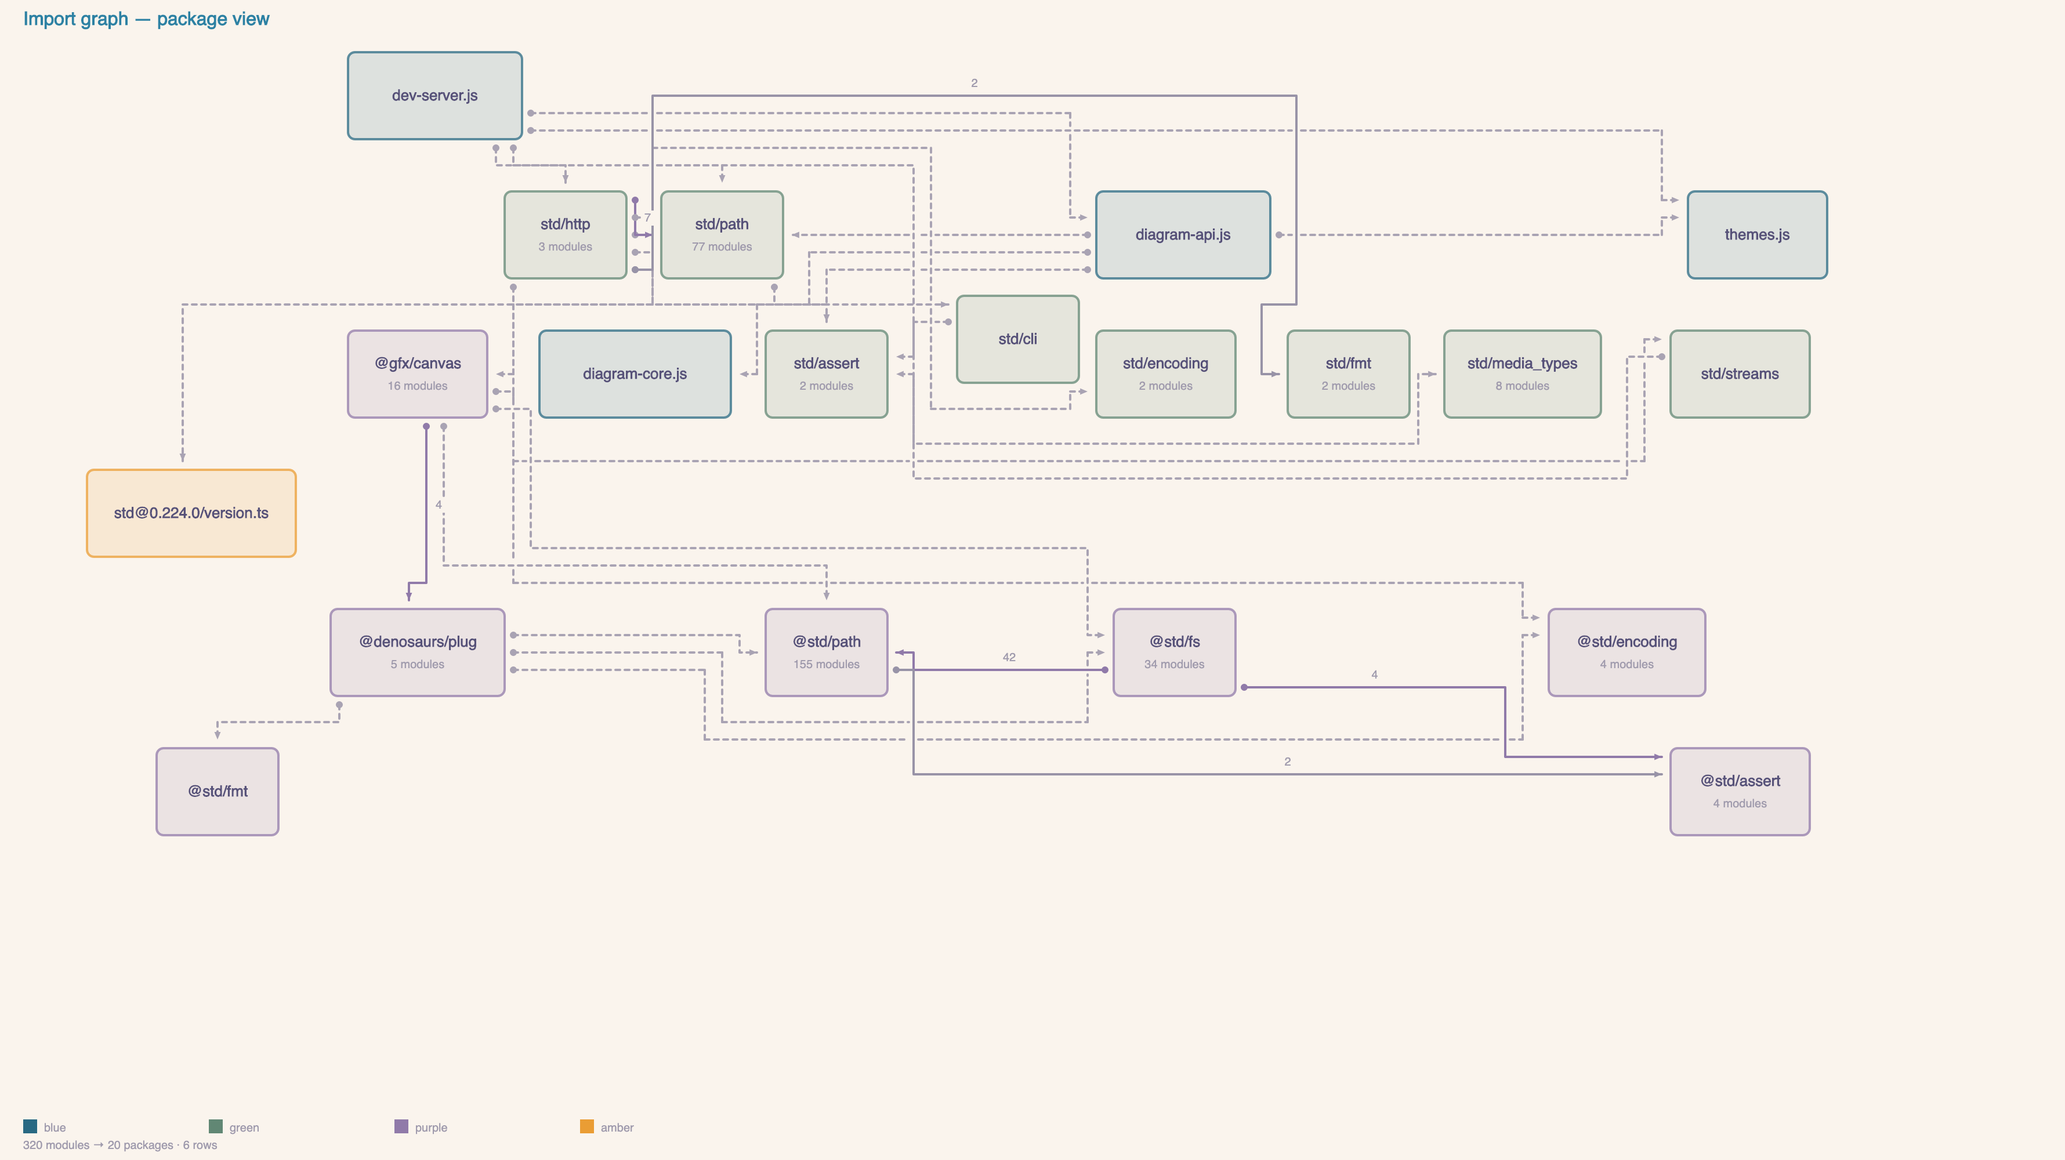
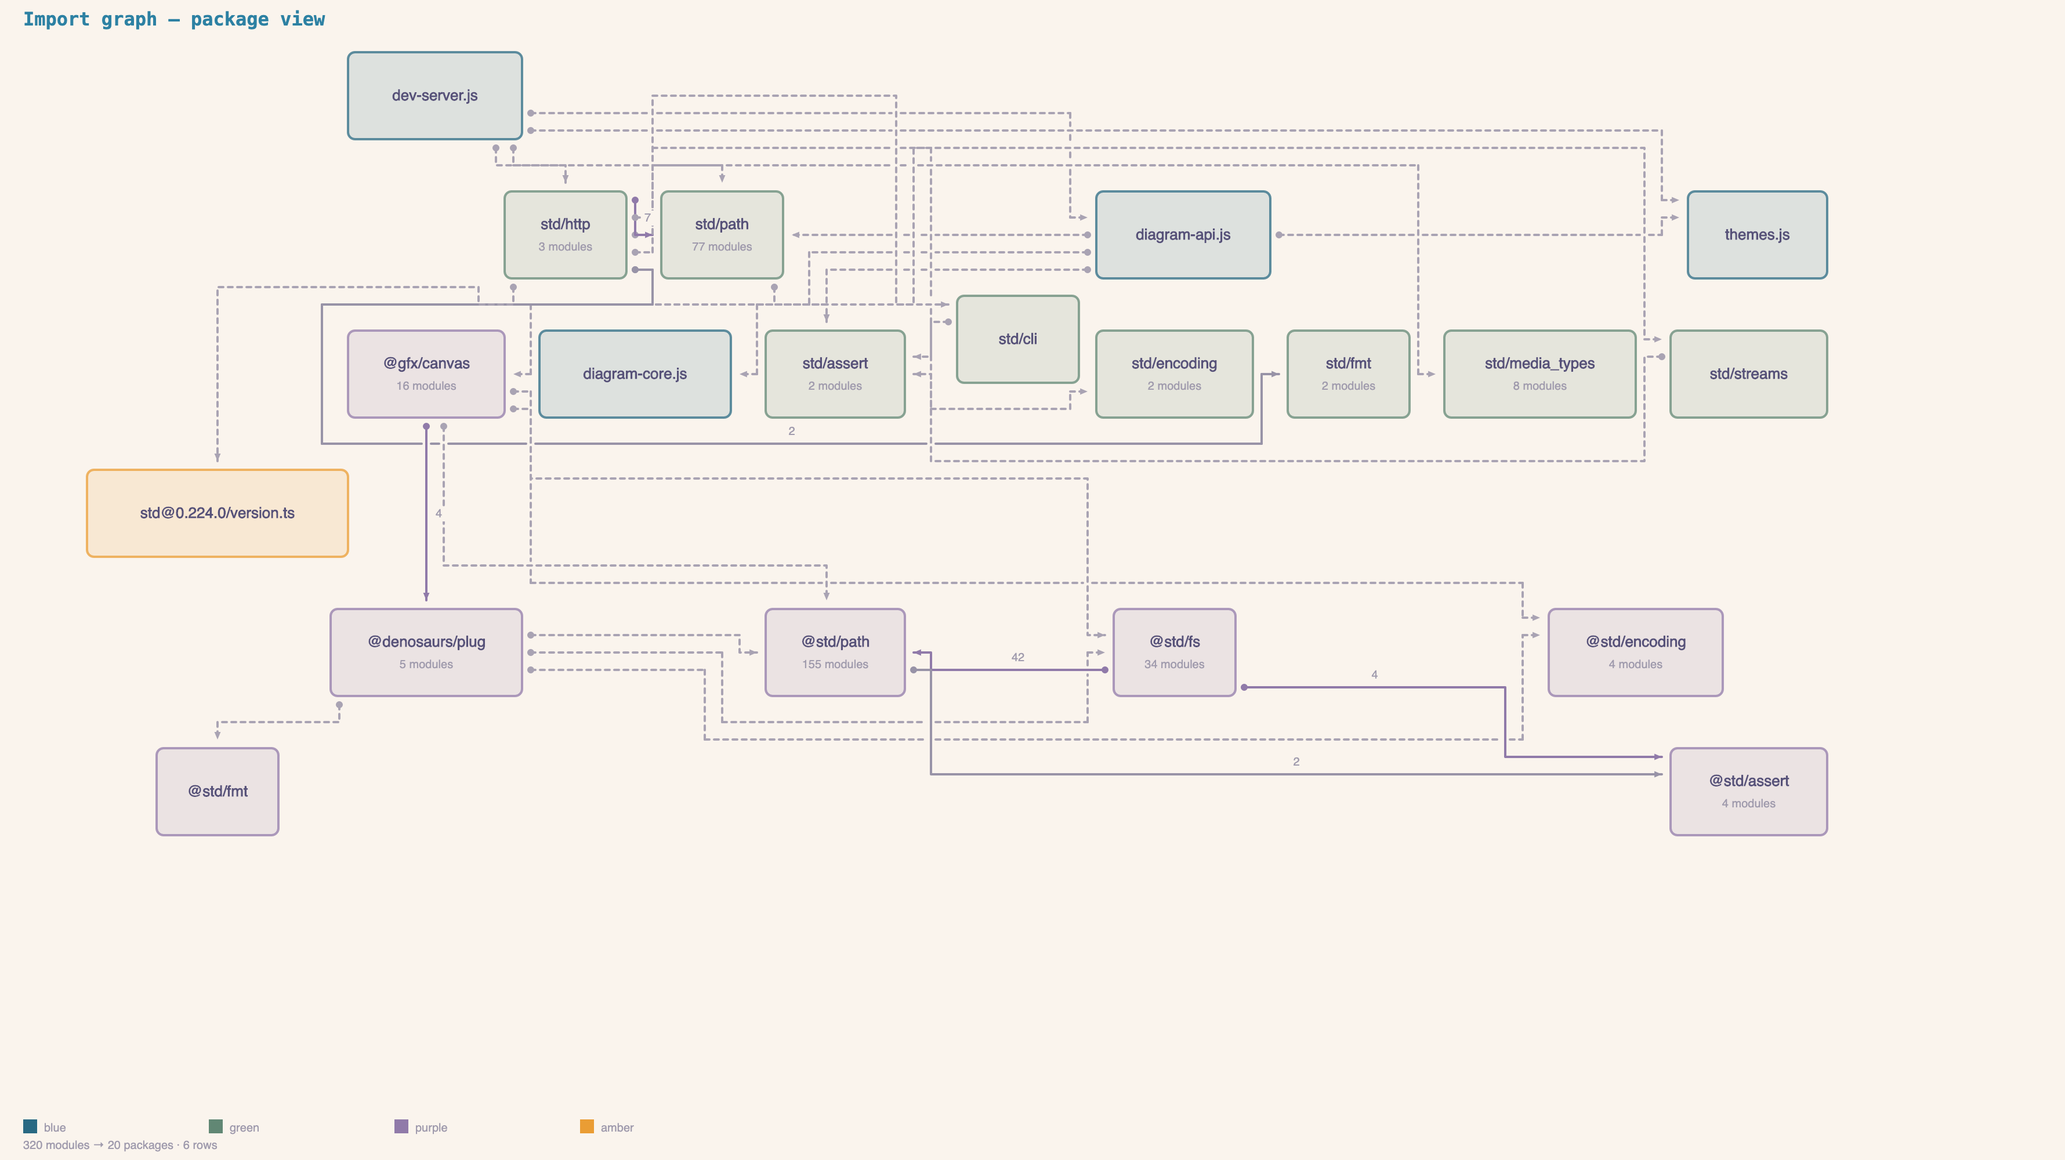
Wrap box text at a width ceiling instead of growing without bound
A box grew to fit whatever text it held. Because layout is a grid, one long
string set the column width for its whole row, so a single node could stretch
the board — and a wide enough board hits the 4096px raster cap and is
downscaled until nothing reads. Importing a real graph needed two rounds of
hand-tuning width and per-row to get a legible PNG, and the importer had to
truncate titles to a character count before handing them over, which cuts the
identifying part of a title as often as not.

Boxes now grow only to maxNodeW (default 340px, scaled by fontSize) and wrap
past it. Titles take two lines, each detail line three, then ellipsize.

The wrapping itself already existed — wrapLabel has been there for explicit
widths, reachable only by dragging a box in the editor. What was missing was a
default budget, and details: contentWidth takes the max over label *and* detail
lines, so capping the label alone cannot cap the box, which is exactly the case
that motivated this.

Manual control is unchanged and still wins. An explicit node.w beats the
ceiling outright, and "maxNodeW": 0 restores unbounded growth for a board that
wants it. A word too long to break is never split — it overflows its line and
widens the box, so module specifiers and ids stay readable rather than being
ellipsized into ambiguity.

Three shipped boards re-render: an audit across all five found one box gaining
a line and zero texts newly ellipsized, so this is width shrinking, not content
[…]

diff --git a/diagram-core.js b/diagram-core.js
@@ -103,6 +103,19 @@ export function fontFamily(state = {}) {
 // with their text. Literals here are exactly today's hardcoded sizes, so an
 // unset fontSize (scale 1) renders byte-identically.
 const BASE_LABEL_PX = 13;
+
+// Default ceiling for an auto-sized box, before its text wraps instead of
+// growing. ~3.4x the card minimum: wide enough that ordinary labels never wrap,
+// narrow enough that a pasted sentence does. Override per board with
+// state.maxNodeW; declared here because fontSizes() runs at module load.
+export const DEFAULT_MAX_BOX_W = 340;
+
+// A title gets two lines; a detail line gets three. Details are usually the
+// longer text, and vertical space is cheap next to the width that forces a
+// whole row wider.
+export const MAX_LABEL_LINES = 2;
+export const MAX_DETAIL_LINES = 3;
+
 export function fontSizes(state = {}) {
   const fs = Number.isFinite(state.fontSize) && state.fontSize > 0
     ? state.fontSize
@@ -131,6 +144,15 @@ export function fontSizes(state = {}) {
       gap: r(4),
       padX: r(20),
       labelBaseline: r(12),
+      // Width a box grows to before its text wraps instead. Without a ceiling
+      // one long string sets the column width for its whole row, so a single
+      // node stretches the board — and a wide enough board hits the 4096px
+      // raster cap and is downscaled until nothing reads. Scales with fontSize
+      // so larger text still gets room for the same number of words.
+      // state.maxNodeW overrides; 0 restores unbounded growth.
+      maxW: Number.isFinite(state.maxNodeW)
+        ? (state.maxNodeW > 0 ? r(state.maxNodeW) : Infinity)
+        : r(DEFAULT_MAX_BOX_W),
     },
   };
 }
@@ -595,33 +617,75 @@ export function wrapLabel(
   const fits = (s) => ctx.measureText(s).width <= budgetPx;
   if (!Number.isFinite(budgetPx) || fits(label)) return [label];
 
-  const words = label.split(/\s+/).filter(Boolean);
-  let i = 0, l1 = "";
-  for (; i < words.length; i++) { // pack line 1 (force ≥1 word even if it overflows)
-    const t = l1 ? l1 + " " + words[i] : words[i];
-    if (fits(t) || !l1) l1 = t;
-    else break;
+  return wrapToLines(label, fits, MAX_LABEL_LINES);
+}
+
+// Greedy word-wrap into at most maxLines lines under `fits`, ellipsizing the
+// last line only if words are left over. A line always takes at least one word,
+// so an unbreakable word longer than the budget yields a line that overflows
+// rather than an empty one — the box then grows to that word, which is why a
+// single long word still widens a box instead of vanishing into an ellipsis.
+function wrapToLines(text, fits, maxLines) {
+  const words = String(text ?? "").split(/\s+/).filter(Boolean);
+  if (!words.length) return [""];
+  const lines = [];
+  let i = 0;
+  while (i < words.length && lines.length < maxLines) {
+    let ln = "";
+    for (; i < words.length; i++) {
+      const t = ln ? ln + " " + words[i] : words[i];
+      if (fits(t) || !ln) ln = t;
+      else break;
+    }
+    lines.push(ln);
   }
-  if (i >= words.length) return [l1];
-  let l2 = "";
-  for (; i < words.length; i++) { // pack line 2
-    const t = l2 ? l2 + " " + words[i] : words[i];
-    if (fits(t) || !l2) l2 = t;
-    else break;
+  const last = lines.length - 1;
+  // The second clause preserves the pre-wrap behaviour for a lone overflowing
+  // word: it is ellipsized once it shares a box with other lines, but a
+  // single-line box keeps the whole word and widens instead.
+  if (i < words.length || (lines.length > 1 && !fits(lines[last]))) {
+    lines[last] = ellipsize(lines[last], fits);
   }
-  if (i < words.length || !fits(l2)) l2 = ellipsize(l2, fits); // leftover words / too-long → …
-  return [l1, l2];
+  return lines;
+}
+
+/**
+ * Wrap detail lines to the same budget as the label, at the detail font.
+ *
+ * Capping the label alone cannot cap the box: contentWidth takes the max over
+ * label *and* detail lines, so one long detail widens the box regardless. Each
+ * source line wraps independently — they are separate facts, not a paragraph —
+ * and runs to MAX_DETAIL_LINES before ellipsizing.
+ */
+export function wrapDetails(
+  ctx,
+  details,
+  budgetPx,
+  font = "monospace",
+  sizes = DEFAULT_SIZES,
+) {
+  const src = details || [];
+  if (!Number.isFinite(budgetPx) || src.length === 0) return [...src];
+  ctx.font = `${sizes.detail}px ${font}`;
+  const fits = (s) => ctx.measureText(s).width <= budgetPx;
+  const out = [];
+  for (const d of src) {
+    const s = String(d ?? "");
+    if (fits(s)) out.push(s);
+    else out.push(...wrapToLines(s, fits, MAX_DETAIL_LINES));
+  }
+  return out;
 }
 
 // Width (px) to fit pre-wrapped label lines + detail lines, floored to the
 // card/emphasis minimum. Shared by measureNodeWidth (single line) and the
 // wrap-aware layout path.
-function contentWidth(ctx, labelLines, node, font, sizes) {
+function contentWidth(ctx, labelLines, detailLines, node, font, sizes) {
   ctx.font = `bold ${sizes.label}px ${font}`;
   let maxW = 0;
   for (const ln of labelLines) maxW = Math.max(maxW, ctx.measureText(ln).width);
   ctx.font = `${sizes.detail}px ${font}`;
-  for (const ln of (node.details || [])) {
+  for (const ln of detailLines) {
     maxW = Math.max(maxW, ctx.measureText(ln).width);
   }
   // node.minW: per-node floor (px) — deliberate emphasis ("make this one bigger")
@@ -638,7 +702,7 @@ export function measureNodeWidth(
   font = "monospace",
   sizes = DEFAULT_SIZES,
 ) {
-  return contentWidth(ctx, [node.label], node, font, sizes);
+  return contentWidth(ctx, [node.label], node.details || [], node, font, sizes);
 }
 
 export function nodeBoxHeight(details, sizes = DEFAULT_SIZES, labelLines = 1) {
@@ -661,18 +725,23 @@ export function nodeBoxSize(
   sizes = DEFAULT_SIZES,
 ) {
   const explicitWpx = node.w > 0 ? node.w * CELL : 0;
-  const budget = explicitWpx > 0 ? explicitWpx - sizes.box.padX * 2 : Infinity;
+  // An explicit width (a drag-resize) is the manual override and wins outright.
+  // Otherwise the board's ceiling applies, so text wraps rather than the box
+  // growing without bound. sizes.box.maxW is Infinity when disabled.
+  const capPx = explicitWpx > 0 ? explicitWpx : sizes.box.maxW;
+  const budget = Number.isFinite(capPx) ? capPx - sizes.box.padX * 2 : Infinity;
   const labelLines = wrapLabel(ctx, node.label, budget, font, sizes);
+  const detailLines = wrapDetails(ctx, node.details, budget, font, sizes);
   const w = Math.max(
-    contentWidth(ctx, labelLines, node, font, sizes),
+    contentWidth(ctx, labelLines, detailLines, node, font, sizes),
     explicitWpx,
   );
   const h = Math.max(
-    nodeBoxHeight(node.details, sizes, labelLines.length),
+    nodeBoxHeight(detailLines, sizes, labelLines.length),
     MIN_BOX_H,
     node.h > 0 ? node.h * CELL : 0,
   );
-  return { w, h, labelLines };
+  return { w, h, labelLines, detailLines };
 }
 
 export function boardExtentForContent(content, baseW = 0, baseH = 0) {
@@ -729,8 +798,13 @@ export function computeLayout(ctx, state, canvasW) {
     // nodeBoxSize is the single source of truth (explicit-width title wrap +
     // card floor); the editor's live resize calls it too, so a dragged box
     // matches what re-rendering produces.
-    const { w, h, labelLines } = nodeBoxSize(ctx, node, FONT, SIZES);
-    pixDims.set(node.id, { w, h, labelLines });
+    const { w, h, labelLines, detailLines } = nodeBoxSize(
+      ctx,
+      node,
+      FONT,
+      SIZES,
+    );
+    pixDims.set(node.id, { w, h, labelLines, detailLines });
   }
 
   // uniformWidth: homogenize — every box without an explicit minW takes the
@@ -974,6 +1048,7 @@ export function computeLayout(ctx, state, canvasW) {
       outlineDash: node.outlineDash,
       details: node.details || [],
       labelLines: dims.labelLines,
+      detailLines: dims.detailLines,
       col,
       row,
       w,
@@ -2262,11 +2337,14 @@ export function drawBoxes(
     // raw box without it falls back to its single label).
     const S = pal.sizes || DEFAULT_SIZES;
     const labelLines = b.labelLines || [b.label];
+    // Pre-wrapped by computeLayout; a raw box without them falls back to its
+    // unwrapped details, which is what a hand-built box or an older caller has.
+    const detailLines = b.detailLines || b.details;
     // Center the text block vertically: the box may be taller than its content
     // (aspect floor / explicit height / wrapped title), so push the block down
     // by half the slack instead of letting it hug the top.
     const slackY =
-      Math.max(0, h - nodeBoxHeight(b.details, S, labelLines.length)) / 2;
+      Math.max(0, h - nodeBoxHeight(detailLines, S, labelLines.length)) / 2;
     let labelY = y + slackY + S.box.padTop + S.box.labelBaseline;
     ctx.fillStyle = pal.text;
     ctx.font = `bold ${S.label}px ${pal.font}`;
@@ -2279,11 +2357,11 @@ export function drawBoxes(
     labelY -= S.box.labelH; // back to the last drawn line's baseline for detail spacing
 
     // Detail lines
-    if (b.details && b.details.length > 0) {
+    if (detailLines && detailLines.length > 0) {
       ctx.fillStyle = pal.textDim;
       ctx.font = `${S.detail}px ${pal.font}`;
       const detailStartY = labelY + S.box.gap + S.box.detailH;
-      b.details.forEach((line, di) => {
+      detailLines.forEach((line, di) => {
         const lineW = ctx.measureText(line).width;
         ctx.fillText(
           line,

diff --git a/tests/diagram-core.test.js b/tests/diagram-core.test.js
@@ -8,7 +8,9 @@ import {
   computeLayout,
   createAstarState,
   DEFAULT_COSTS,
+  DEFAULT_MAX_BOX_W,
   fontFamily,
+  fontSizes,
   Grid,
   MIN_BOX_H,
   nodeBoxHeight,
@@ -17,6 +19,7 @@ import {
   snapAlign,
   T_BLOCKED,
   withAlpha,
+  wrapDetails,
   wrapLabel,
 } from "../diagram-core.js";
 
@@ -231,6 +234,121 @@ Deno.test("wrapLabel: infinite budget never wraps; a finite budget wraps to <=2 
   assertEquals(wrapLabel(ctx, "Supercalifragilistic", 40), [
     "Supercalifragilistic",
   ]);
+});
+
+// The point of the default ceiling: one long string used to set the column
+// width for its whole row, so a single node could stretch the board past the
+// 4096px raster cap. These pin that wrapping is what happens instead, and that
+// every way of asking for a wide box still works.
+const LONG =
+  "Reconcile the fork and upstream ownership status before the release";
+
+Deno.test("a long label wraps to the default ceiling instead of widening the box", () => {
+  const ctx = measureContext();
+  const boxOf = (state) =>
+    computeLayout(ctx, { edges: [], ...state }, 4000).find((b) => b.id === "a");
+
+  const wrapped = boxOf({ nodes: [{ id: "a", label: LONG, row: 0, col: 0 }] });
+  assert(
+    wrapped.pixW <= DEFAULT_MAX_BOX_W,
+    `expected width <= ${DEFAULT_MAX_BOX_W}, got ${wrapped.pixW}`,
+  );
+  assert(
+    wrapped.labelLines.length === 2,
+    `expected the label to wrap, got ${JSON.stringify(wrapped.labelLines)}`,
+  );
+
+  // maxNodeW: 0 restores unbounded growth, so a board that wants the old
+  // behaviour can still have it.
+  const unbounded = boxOf({
+    maxNodeW: 0,
+    nodes: [{ id: "a", label: LONG, row: 0, col: 0 }],
+  });
+  assert(
+    unbounded.pixW > DEFAULT_MAX_BOX_W,
+    `expected an unbounded box to exceed the ceiling, got ${unbounded.pixW}`,
+  );
+  assertEquals(unbounded.labelLines, [LONG], "unbounded means unwrapped");
+
+  // An explicit width is the manual override and beats the ceiling.
+  const explicit = boxOf({
+    nodes: [{ id: "a", label: LONG, row: 0, col: 0, w: 40 }],
+  });
+  assert(
+    explicit.pixW === 40 * CELL,
+    `explicit width wins, got ${explicit.pixW}`,
+  );
+});
+
+Deno.test("detail lines wrap too — capping only the label cannot cap the box", () => {
+  const ctx = measureContext();
+  const box = computeLayout(ctx, {
+    edges: [],
+    nodes: [{ id: "a", label: "#653", details: [LONG], row: 0, col: 0 }],
+  }, 4000).find((b) => b.id === "a");
+
+  assert(
+    box.pixW <= DEFAULT_MAX_BOX_W,
+    `a long detail must not widen the box, got ${box.pixW}`,
+  );
+  assert(
+    box.detailLines.length > 1,
+    `expected the detail to wrap, got ${JSON.stringify(box.detailLines)}`,
+  );
+
+  // The trade itself: against the same node with the ceiling off, the wrapped
+  // box is narrower and no shorter. Asserting a bare height floor would not
+  // catch a change that widened the box again.
+  const unbounded = computeLayout(ctx, {
+    edges: [],
+    maxNodeW: 0,
+    nodes: [{ id: "a", label: "#653", details: [LONG], row: 0, col: 0 }],
+  }, 4000).find((b) => b.id === "a");
+  assert(
+    box.pixW < unbounded.pixW,
+    `wrapped box should be narrower: ${box.pixW} vs ${unbounded.pixW}`,
+  );
+  assert(
+    box.pixH >= unbounded.pixH,
+    `wrapped box should be no shorter: ${box.pixH} vs ${unbounded.pixH}`,
+  );
+});
+
+Deno.test("wrapDetails: each source line wraps independently and keeps unbreakable words", () => {
+  const ctx = measureContext();
+  const sizes = fontSizes();
+
+  // Two facts stay two facts — they are not reflowed into one paragraph.
+  const two = wrapDetails(
+    ctx,
+    ["alpha beta gamma delta", "second"],
+    90,
+    "monospace",
+    sizes,
+  );
+  assertEquals(two[two.length - 1], "second", "the last source line survives");
+  assert(
+    two.length > 2,
+    `expected the first line to wrap, got ${JSON.stringify(two)}`,
+  );
+
+  // No budget → verbatim passthrough, so nothing changes for callers that
+  // disable the ceiling.
+  assertEquals(
+    wrapDetails(ctx, ["a b c"], Infinity, "monospace", sizes),
+    ["a b c"],
+  );
+
+  // An unbreakable token is never chopped: it overflows its line and widens the
+  // box, which is what keeps module specifiers and ids readable.
+  const long = wrapDetails(
+    ctx,
+    ["jsr:@std/path@0.224.0/posix"],
+    40,
+    "monospace",
+    sizes,
+  );
+  assertEquals(long, ["jsr:@std/path@0.224.0/posix"]);
 });
 
 Deno.test("computeLayout honors explicit w/h (cells), clamped up to content", () => {

diff --git a/README.md b/README.md
@@ -133,6 +133,7 @@ See [Collaboration & concurrency](#collaboration--concurrency) for the safety mo
   "font": "mono",                          // optional: "mono" (default) | "sans" (Instrument Sans)
   "fontSize": 13,                          // optional: base box-label px (default 13); scales the whole diagram
   "uniformWidth": false,                   // optional: homogenize box widths (see below)
+  "maxNodeW": 340,                         // optional: px a box grows to before its text wraps (0 = never wrap)
   "dividers": [                            // optional: dotted boundary lines across the canvas
     { "orient": "h", "at": 240, "label": "host boundary" }
   ],
@@ -161,7 +162,8 @@ Three light annotation primitives keep diagrams grokkable without boxes-inside-b
 - **Dividers** — full-width/-height dotted lines that partition the canvas into regions (`"dividers"`, or `add-divider h 240 "host boundary"`). Annotation only: wires route straight through them.
 - **Notes** — free-floating info-panel text outside any box (`"notes"`, or `add-note 950 320 --title="why" "line one" "line two"`): captions beside connectors, region callouts. Notes mirror the node placement model: an absolute `x,y` **or** an `anchor` to a node that rides the box through re-layout (`add-note --anchor=api:E:12:0 "…"` → 12px right of `api`'s east edge). In the editor, drag a note to pin it (writes a `noteLayout[id]` override), right-click for **Edit / Re-anchor to nearest box / Free / Delete**, double-click to edit text, or right-click empty canvas to drop one. `free-note <id>` drops the drag override so the note returns to its anchor/`x,y`.
 - **Uniform widths** — `"uniformWidth": true` (or `uniform-width on`) sizes every box to the widest one, so size variation reads as *deliberate*. To emphasize a node, give it `"minW": <px>` (or `update-node <id> --minW=320`) — it keeps its own size while the rest stay homogenized.
-- **Box size** — boxes auto-fit their content, floored to a 4:3 card minimum so short labels aren't thin strips. Set an explicit size in grid cells with `"w"`/`"h"` (or `update-node <id> --w=14 --h=6`, or drag a box's bottom-right corner in the editor). Explicit size is clamped up to the content/card minimum, so a box can never shrink small enough to clip its text; `--w=0`/`--h=0` clears it back to auto. Explicitly-sized boxes opt out of `uniformWidth`. When you give a box an explicit width, a long **title** wraps to a second line to fit it (so you can make a wide box narrower); the title caps at two lines and ellipsizes beyond that — use `details` for more text. Auto-width boxes keep their title on one line.
+- **Box size** — boxes auto-fit their content, floored to a 4:3 card minimum so short labels aren't thin strips. Set an explicit size in grid cells with `"w"`/`"h"` (or `update-node <id> --w=14 --h=6`, or drag a box's bottom-right corner in the editor). Explicit size is clamped up to the content/card minimum, so a box can never shrink small enough to clip its text; `--w=0`/`--h=0` clears it back to auto. Explicitly-sized boxes opt out of `uniformWidth`. When you give a box an explicit width, a long **title** wraps to fit it (so you can make a wide box narrower).
+- **Text wrapping** — a box grows to fit its text only up to `maxNodeW` (default 340px, scaled by `fontSize`); past that the text wraps instead. Without a ceiling one long string sets the column width for its whole row, so a single node stretches the board — and a wide enough board hits the 4096px raster cap and is downscaled until nothing reads. Titles wrap to two lines, each `details` line to three, then ellipsize. A word too long to break is never split: it overflows and widens the box, so module paths and ids stay readable. To opt out, set `"maxNodeW": 0` for the board, or give one box an explicit `"w"` — an explicit width always wins.
 - **Typeface** — `"font": "sans"` (or `set-font sans`) switches the whole diagram from the default monospace to bundled Instrument Sans (with DejaVu's symbol glyphs merged in, so `✗ ✓ → ●` still render). The editor ships a matching `@font-face`, so it stays WYSIWYG.
 - **Font size** — `"fontSize": 16` (or `set-font-size 16`, or the editor sidebar) scales every text size *and* the box geometry from a base of 13px, so boxes grow to fit. Unset renders identically to before. `set-font-size reset` returns to the default.
 
